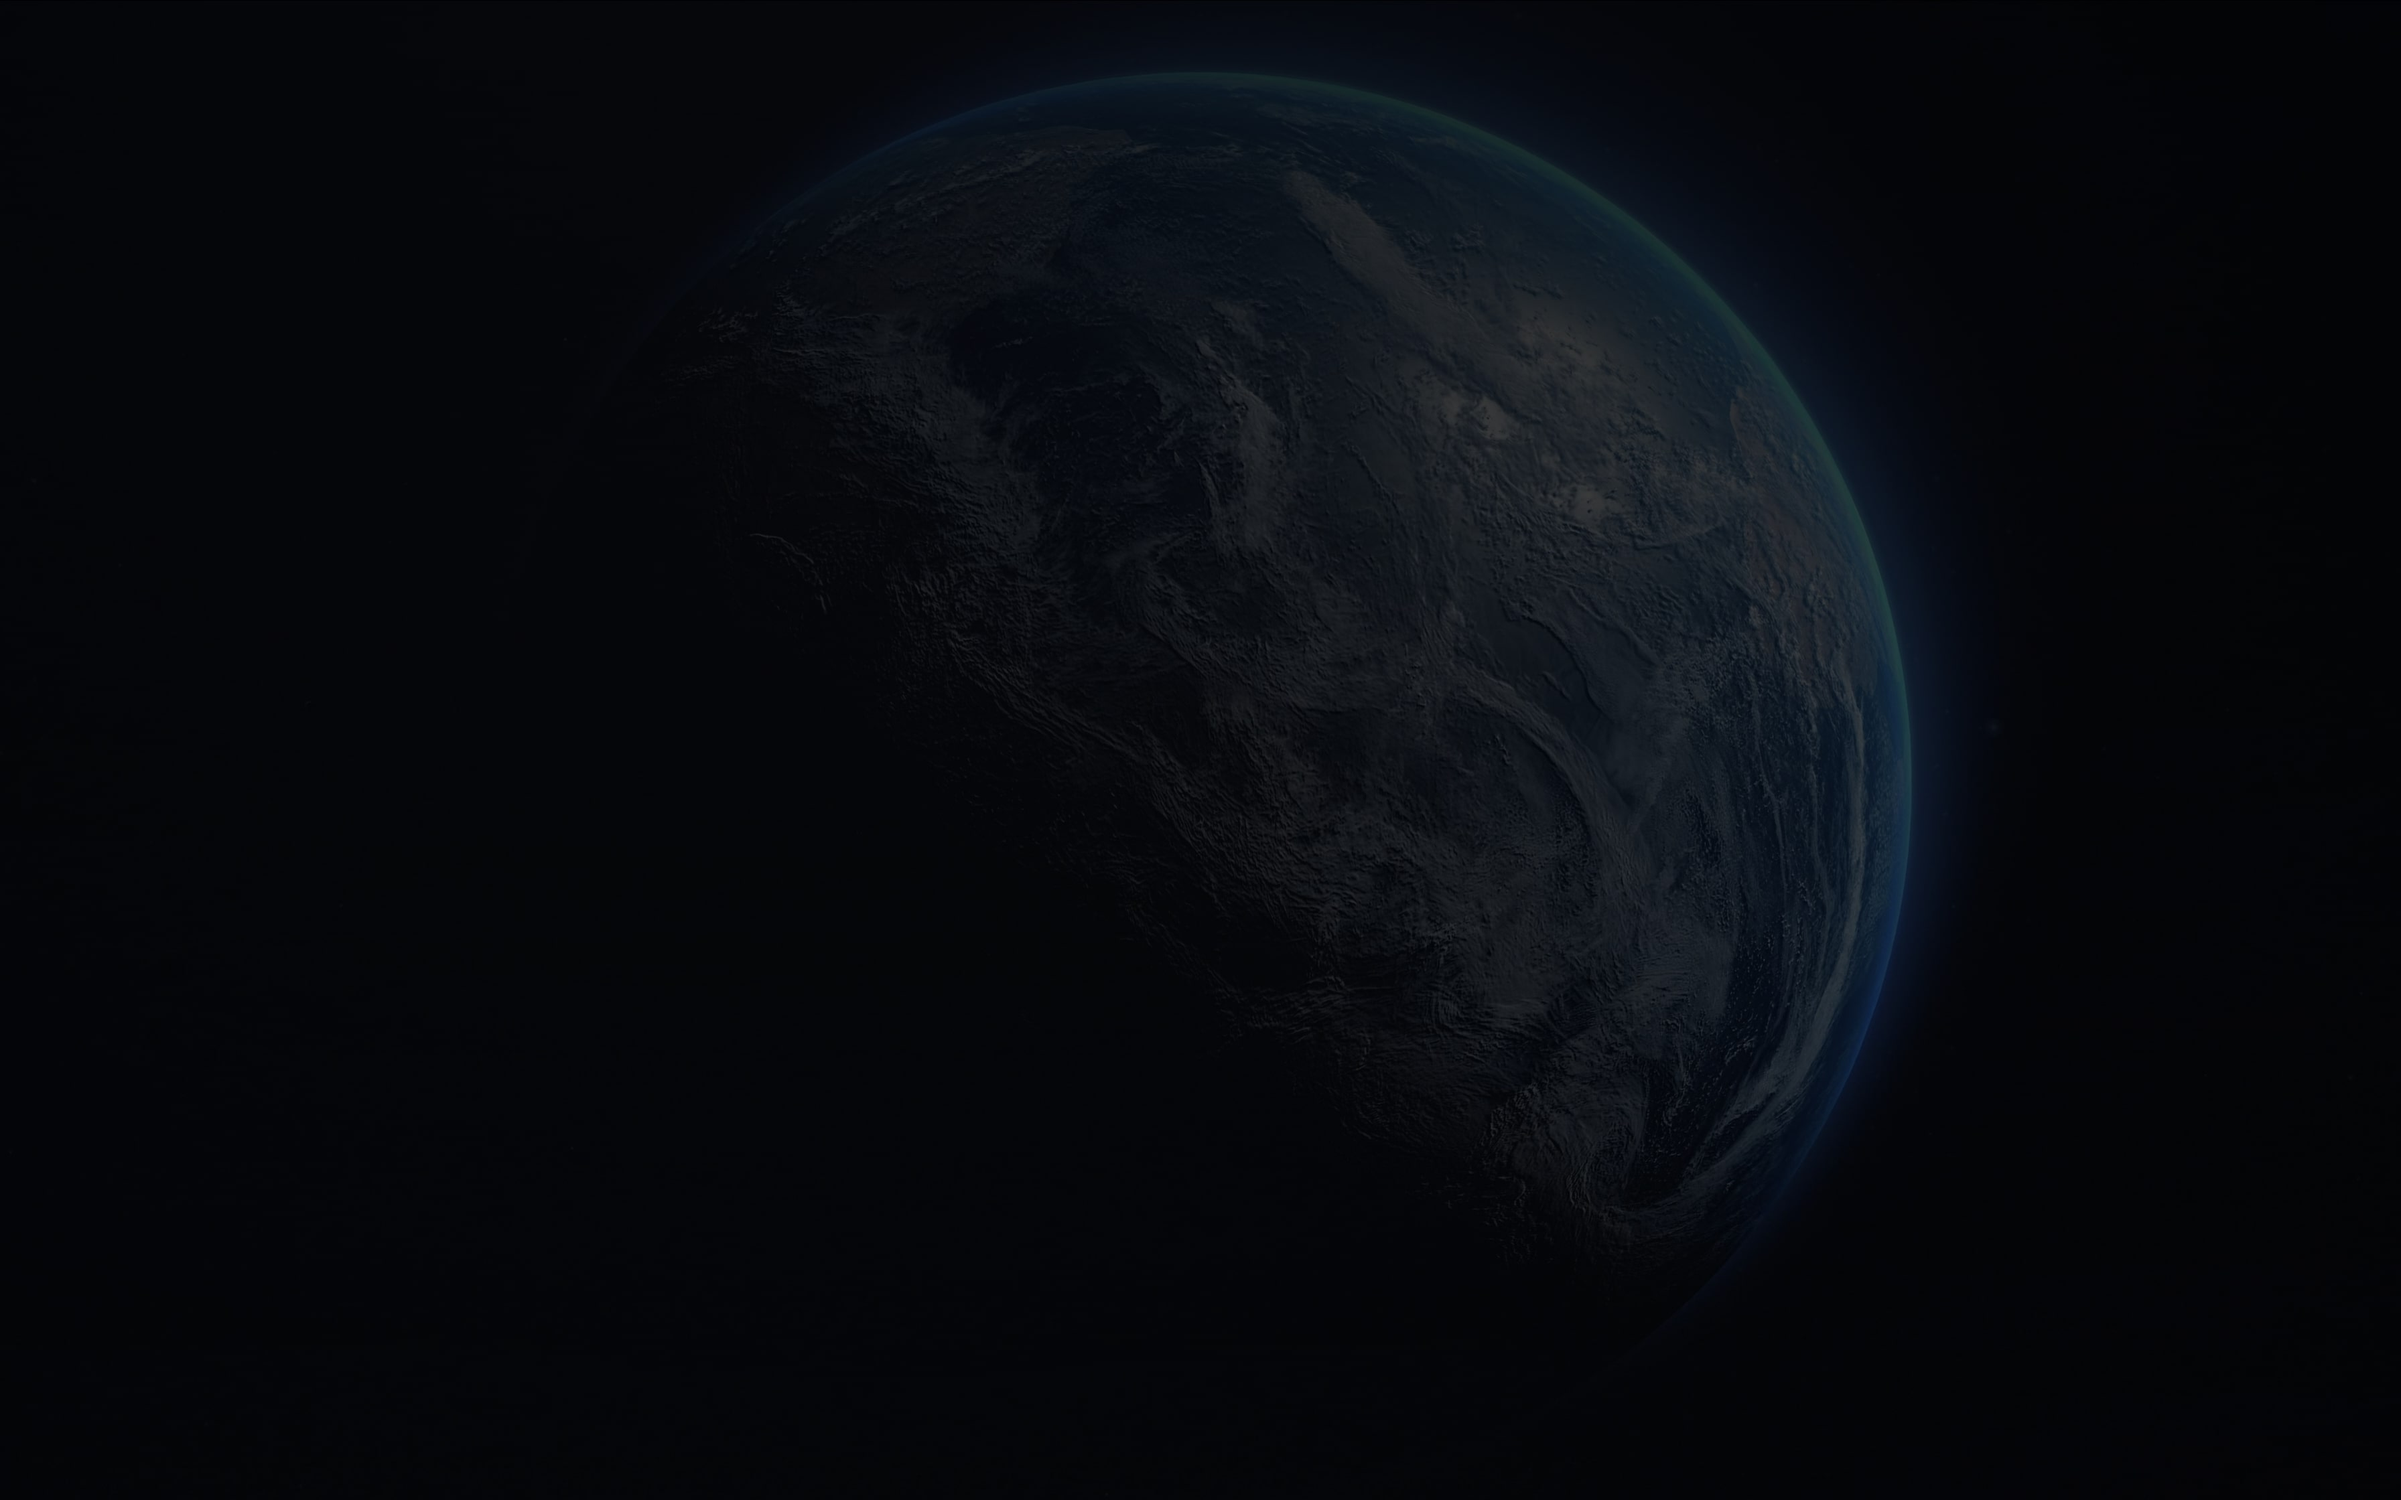
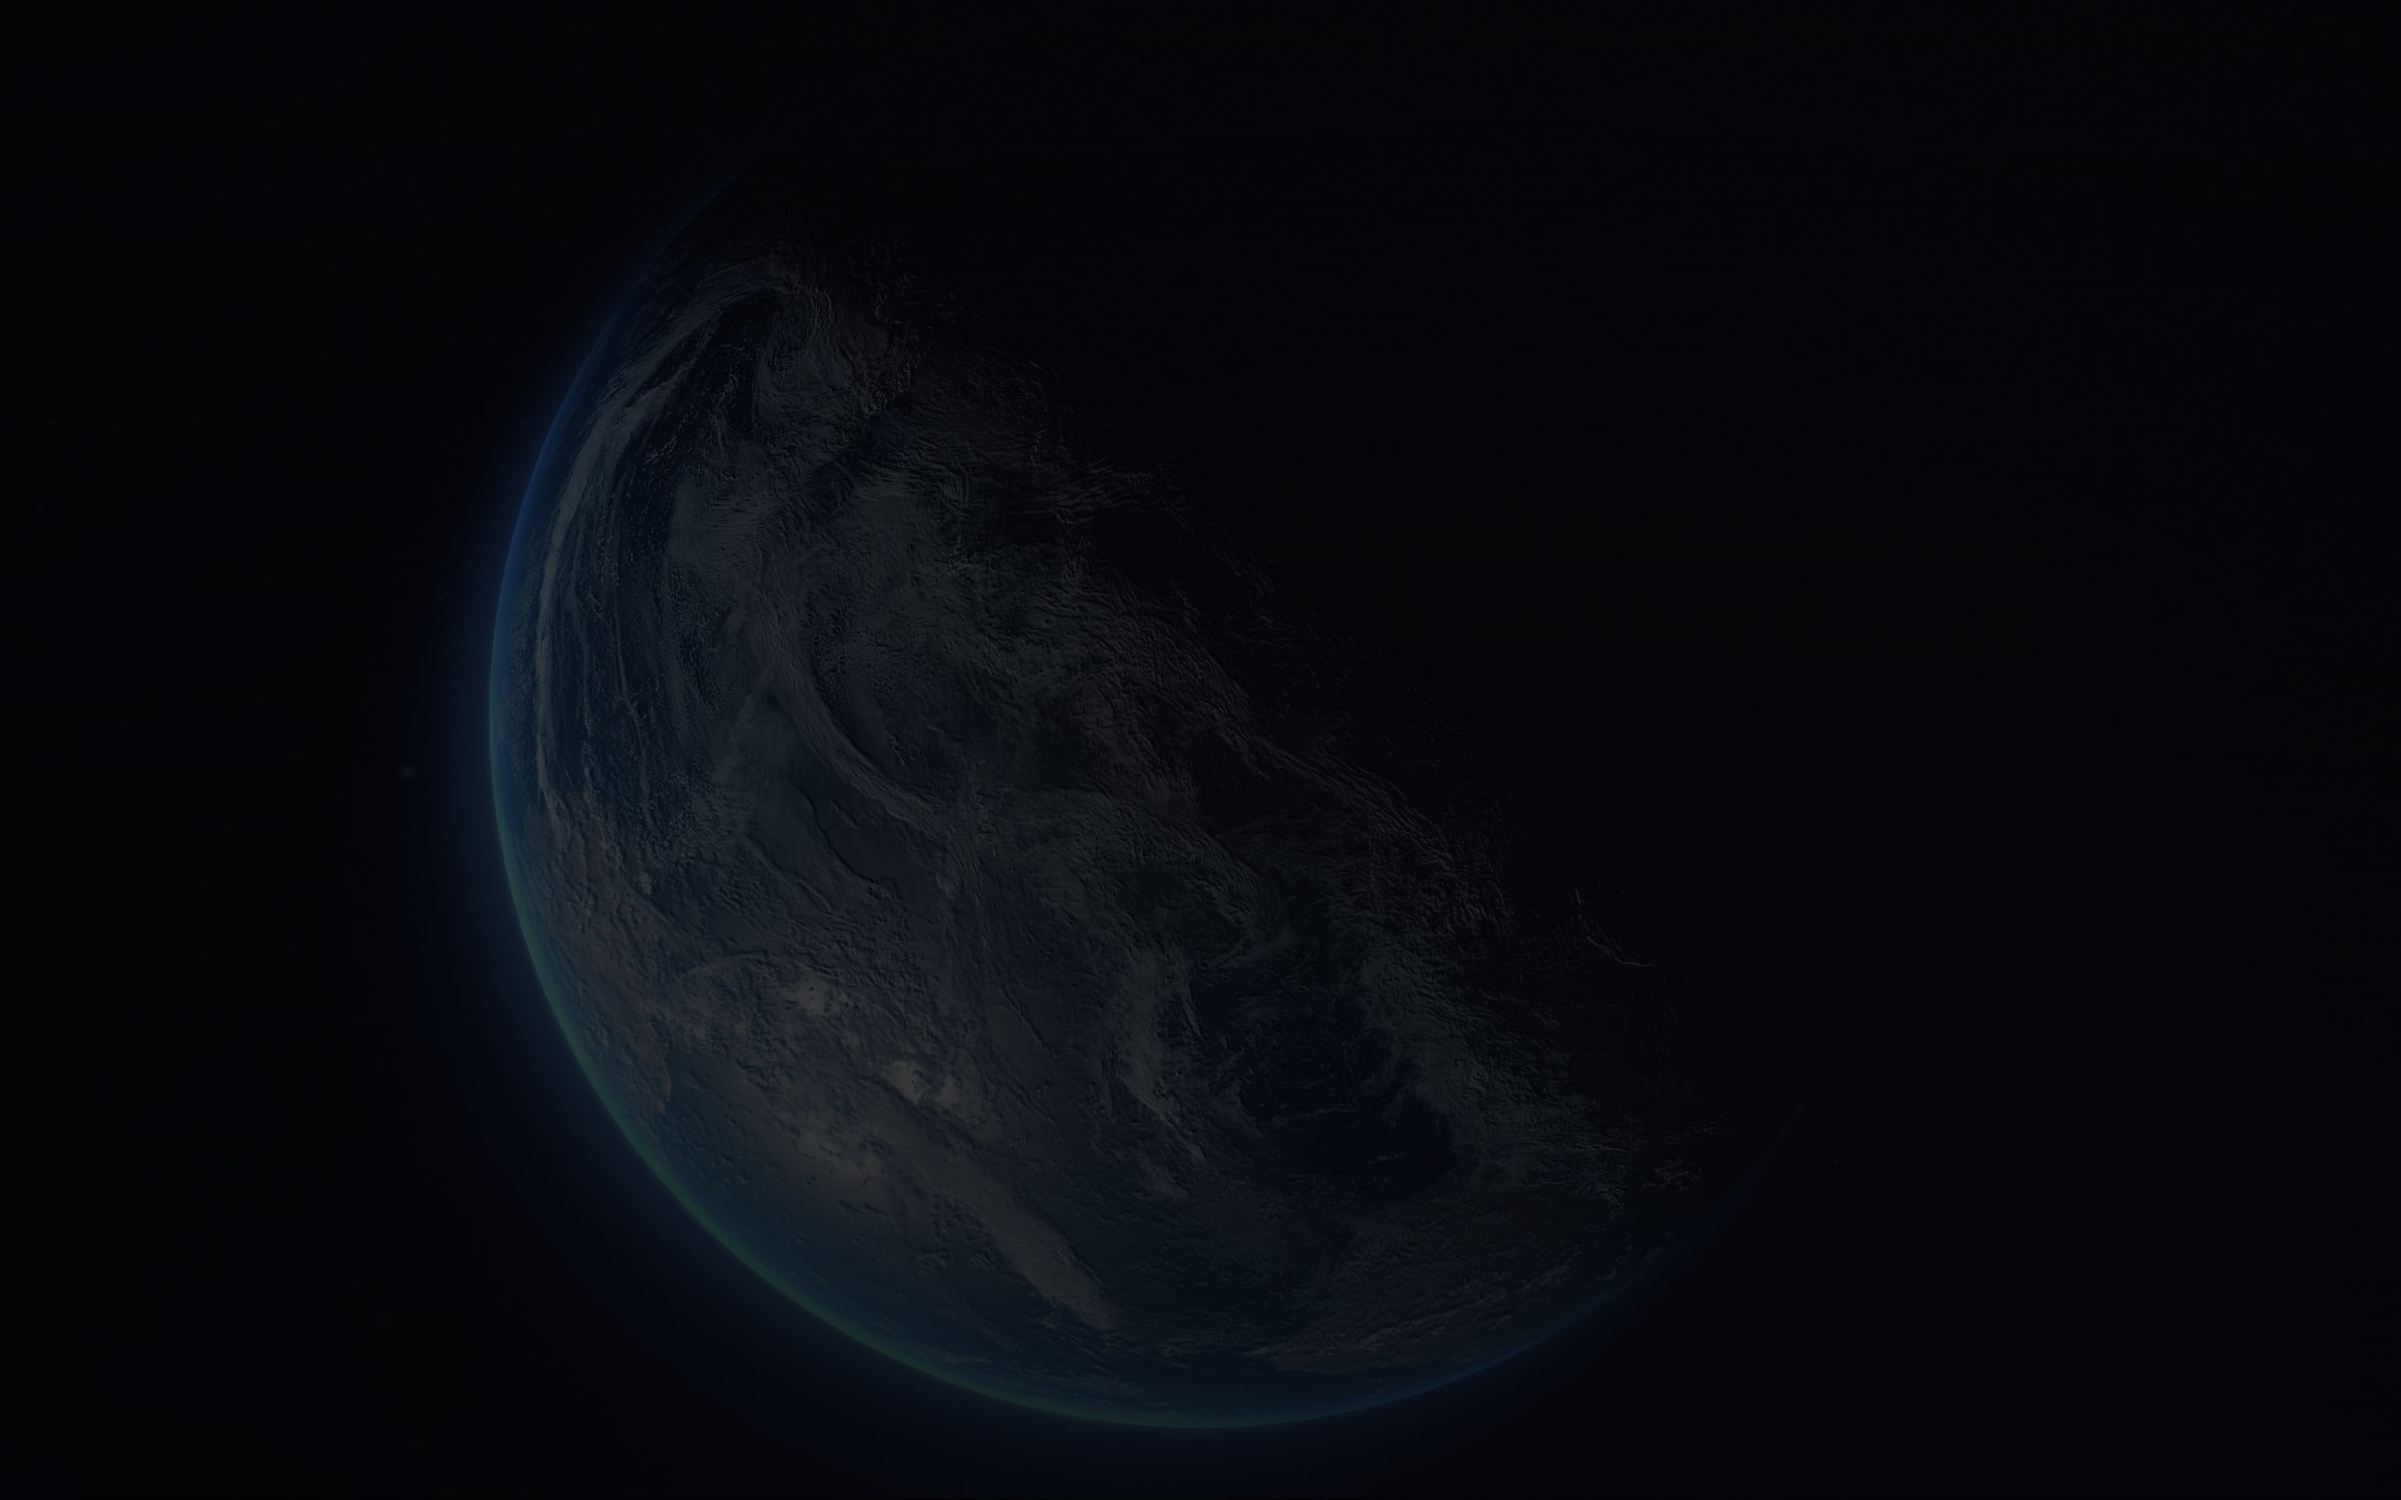
move image reset inside component css

Changed region(s): [[0.375, 0.0312, 0.8125, 0.7812], [0.1875, 0.2188, 0.625, 0.9688]]

diff --git a/demo/index.html b/demo/index.html
@@ -19,17 +19,19 @@
     <h2>Example 1: Just two <code>&lt;img&gt;</code> tags</h2>
 
     <image-compare>
-        <img alt="Alt text" src="earth-light.jpg" width="3584" height="2240" />
         <img alt="Alt text" src="earth-dark.jpg" width="3584" height="2240" />
+        <img alt="Alt text" src="earth-light.jpg" width="3584" height="2240" />
     </image-compare>
     
     <h2>Example 2: With a caption, wrapped in a <code>&lt;figure&gt;</code>, and with an initial exposure of 25%</h2>
     <figure>
         <image-compare exposure="25">
-            <img alt="Alt text" src="earth-light.jpg" width="3584" height="2240" />
-            <img alt="Alt text" src="earth-dark.jpg" width="3584" height="2240" />
+            <img alt="Alt text" src="earth-dark.jpg" width="358" height="224" />
+            <img alt="Alt text" src="earth-light.jpg" width="358" height="224" />
         </image-compare>
-        <figcaption>Before/After</figcaption>
+        <figcaption>
+            Before/after lorem, ipsum dolor sit amet consectetur adipisicing elit.
+        </figcaption>
     </figure>
 </body>
 </html>

diff --git a/src/image-compare.css b/src/image-compare.css
@@ -25,7 +25,8 @@ image-compare {
 		width: fit-content;
 		max-width: 100%;
 		margin-inline: auto;
-		img { width: 100%; height: auto; }
+		flex-direction: row;
+		overflow-x: auto;
 		label {
 			position: absolute;
 			inset: 0;
@@ -43,17 +44,13 @@ image-compare {
 			height: unset;
 		}
 	}
-	&:not(:defined) {
-		flex-direction: row;
-		overflow-x: auto;
-	}
 	&:defined {
 		flex-direction: column;
 		overflow: clip;
 		.image-2-wrapper {
 			position: absolute;
 			top: 0;
-			/* shadow used for vertiacal divider */
+			/* shadow used for vertical divider */
 			filter: drop-shadow( calc(-1*var(--divider-width)) 0 0 var(--divider-color) );
 			img {
 				--_top-left: calc(var(--exposure) + var(--divider-width)/2);
@@ -62,9 +59,9 @@ image-compare {
 			}
 		}
 	}
-	/* adjecent figcaption */
+	img { display: block; max-width: 100%; height: auto; }
+	/* adjacent figcaption */
 	& + figcaption { 
-		text-align: center; 
 		margin-block-start: .5lh; 
 	}
 	/* utils */

diff --git a/demo/demo.css b/demo/demo.css
@@ -1,6 +1,5 @@
 @layer reset {
 	*, *:before, *:after { box-sizing: border-box; }
-	img { display: block; max-width: 100%; height: auto; }
 }
 
 @layer demo {
